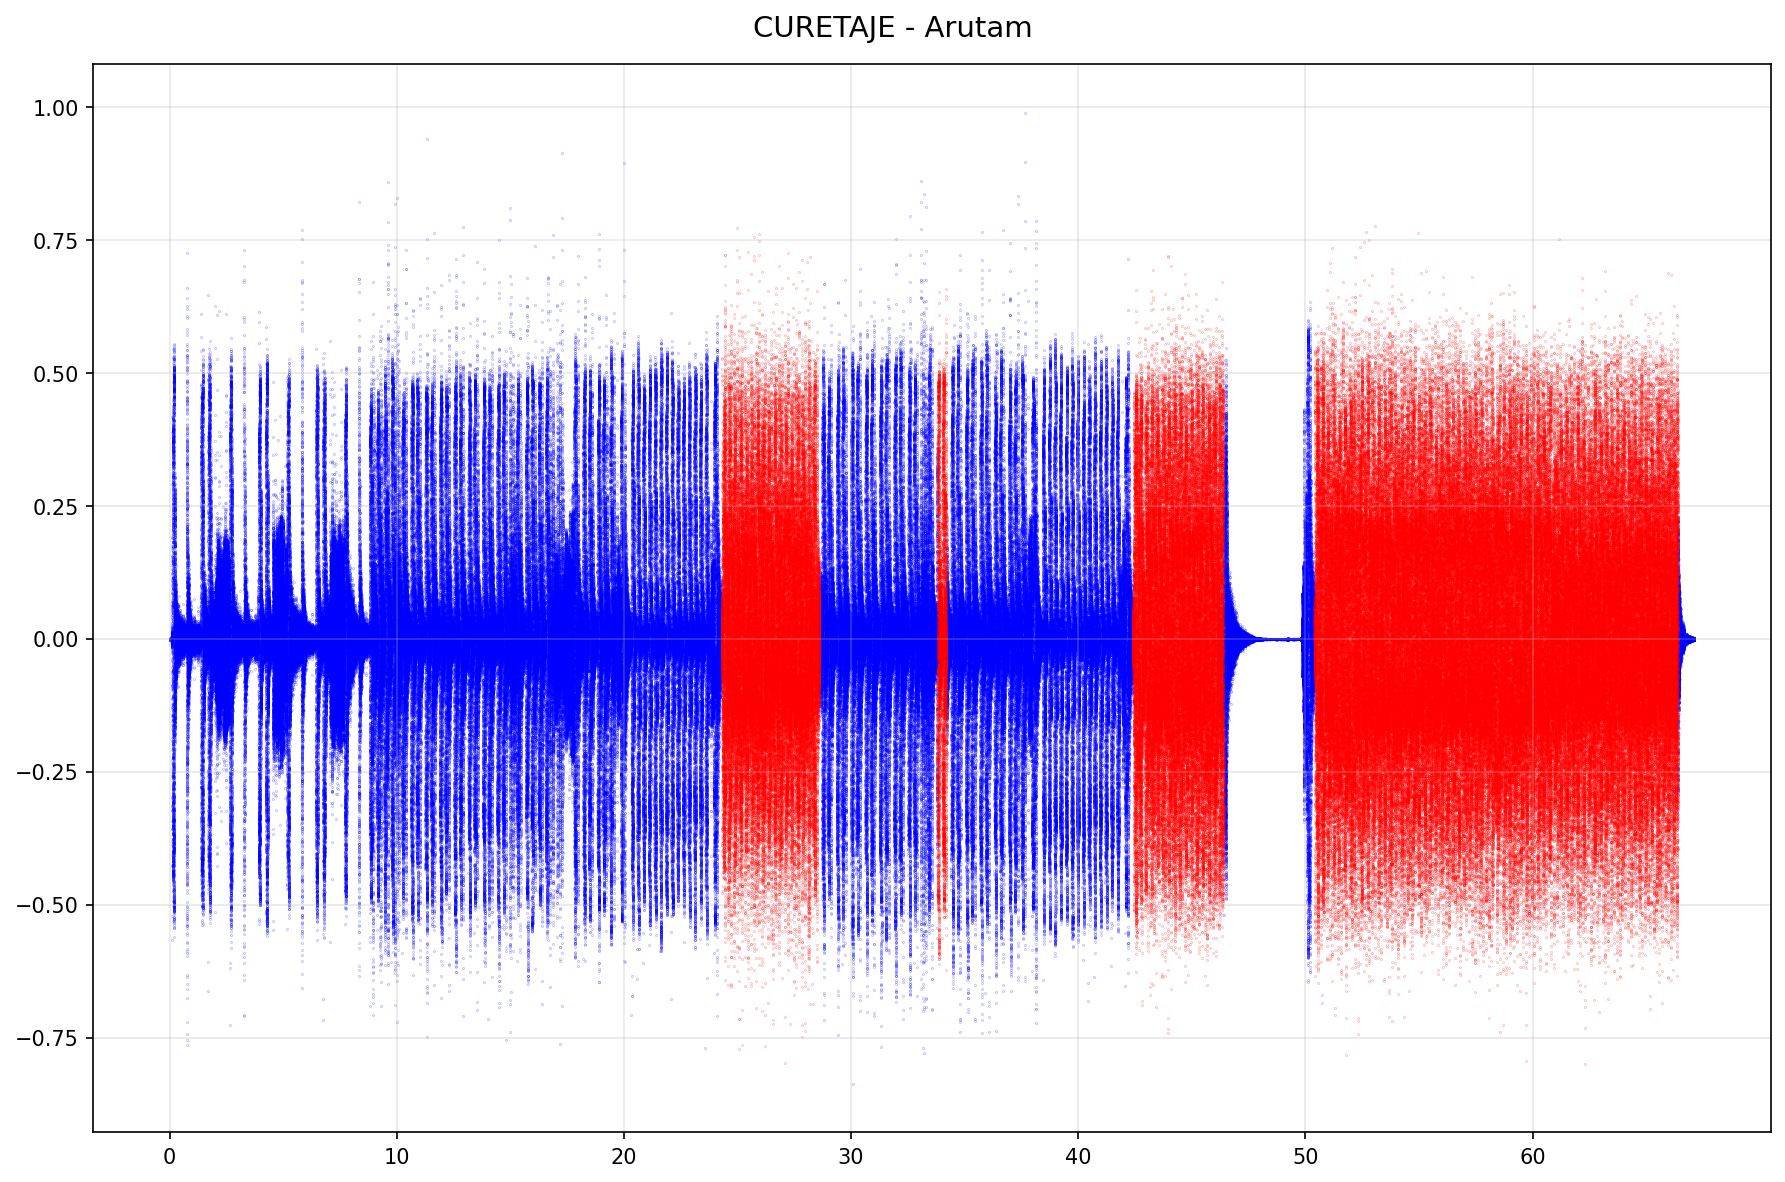
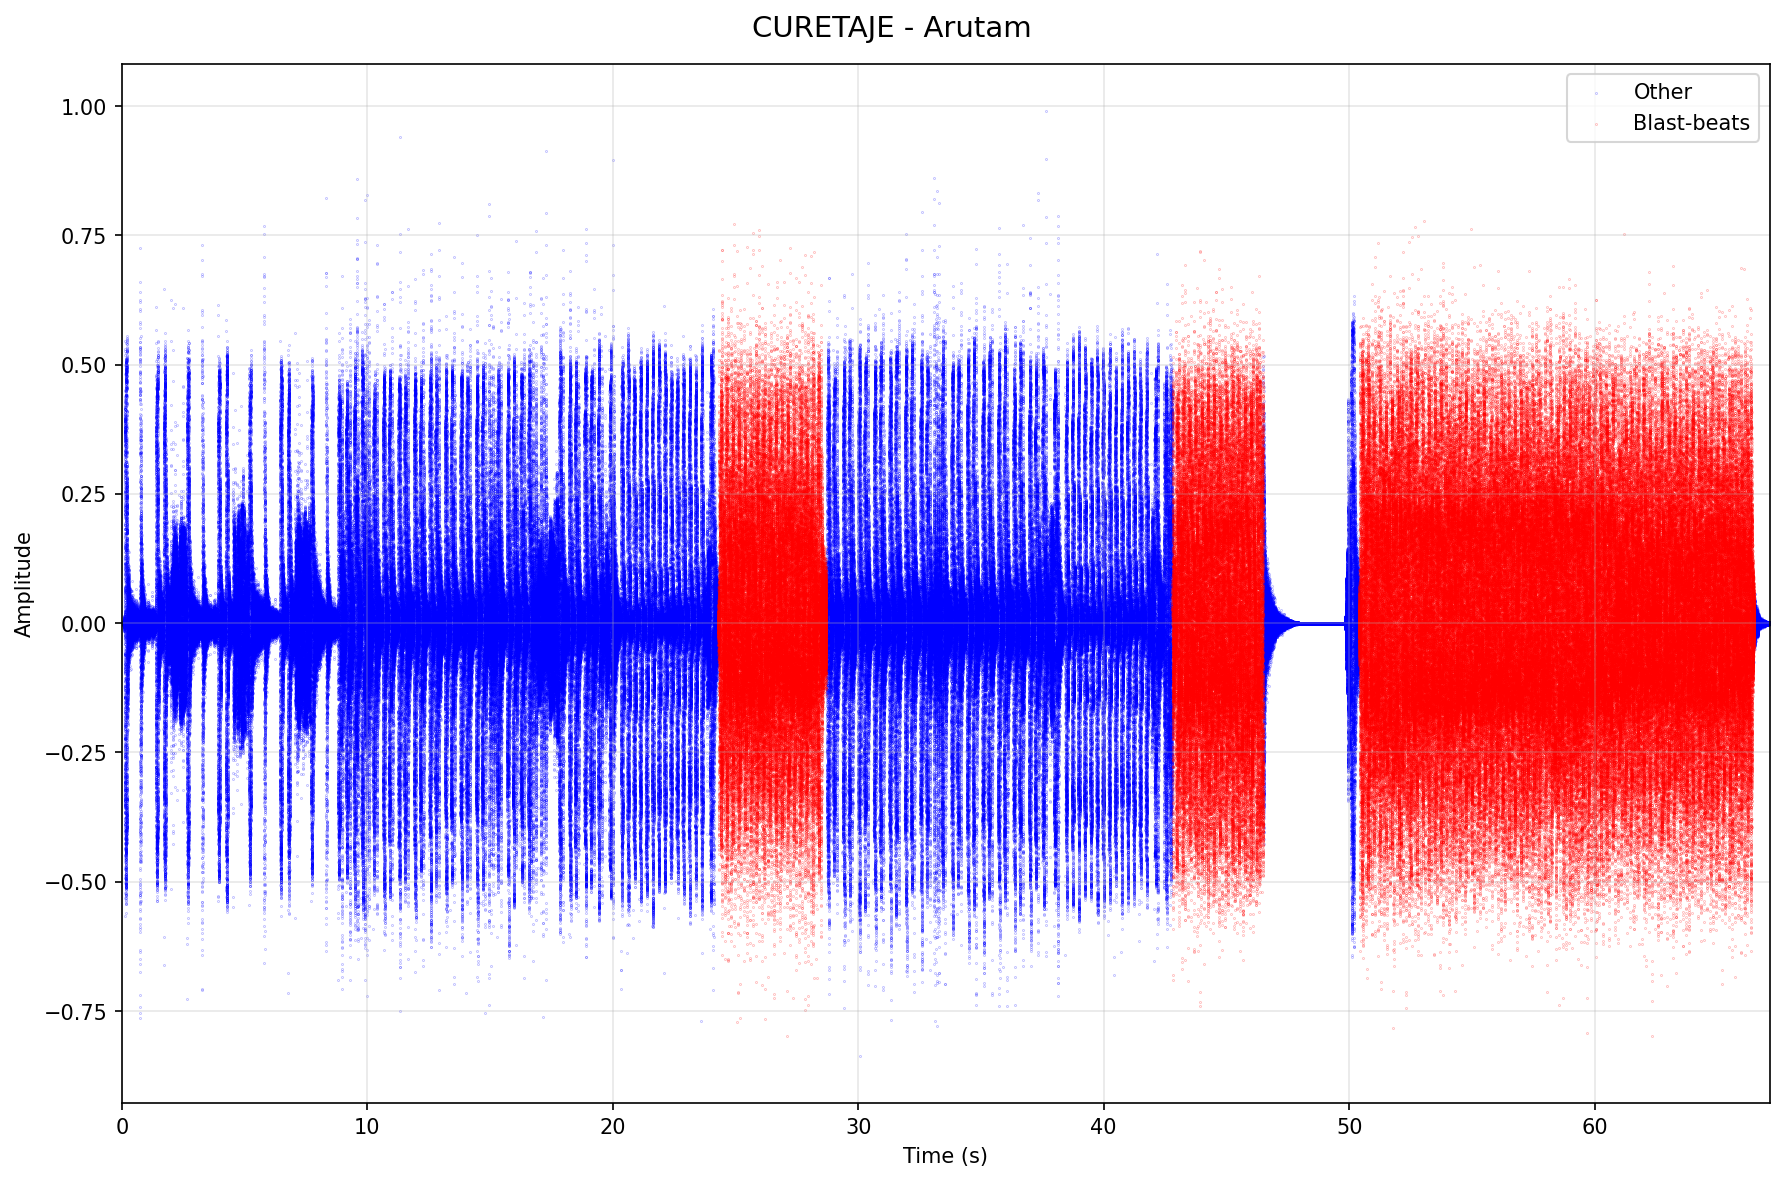
adjust hardcoded freqs. for curetaje example

diff --git a/main.py b/main.py
@@ -9,7 +9,8 @@ from plotting import plot_waveform
 
 
 class LabeledSection(NamedTuple):
-    time_range: tuple[int, int]
+    start_idx: int
+    end_idx: int
     snare_present: bool
     bass_drum_present: bool
 
@@ -58,7 +59,7 @@ def get_sections_labeled_by_percussion_content_from_audio(time, data, sample_rat
         snare_present = is_peak_present_around_frequency(snare_drum_freq, freq, fft_magnitude)
         bass_drum_present = is_peak_present_around_frequency(bass_drum_freq, freq, fft_magnitude)
 
-        results.append(LabeledSection((start_idx, end_idx), snare_present, bass_drum_present))
+        results.append(LabeledSection(start_idx, end_idx, snare_present, bass_drum_present))
 
     return results
 
@@ -77,8 +78,8 @@ def identify_blastbeat_intervals(sections: list[LabeledSection]) -> list[tuple[i
             hits_count += 1
         else:
             if hits_count >= min_hits_threshold:
-                blastbeat_start = sections[blastbeat_start_idx].time_range[0]
-                blastbeat_end = sections[i].time_range[0]
+                blastbeat_start = sections[blastbeat_start_idx].start_idx
+                blastbeat_end = sections[i].end_idx
                 results.append((blastbeat_start, blastbeat_end))
             hits_count = 0
 
@@ -89,7 +90,7 @@ if __name__ == "__main__":
     base_dir = "/home/linomp/Downloads"
     default_output_dir = f"./output"
 
-    bass_drum_freq, snare_freq, file = 40.0, 200.0, "CURETAJE - Arutam.mp3"
+    bass_drum_freq, snare_freq, file = 40.0, 230.0, "CURETAJE - Arutam.mp3"
     #bass_drum_freq, snare_freq, file = 30.0, 300.0, "Dying Fetus - Subjected To A Beating.wav"
 
     file_path = Path(base_dir) / file

diff --git a/plotting.py b/plotting.py
@@ -103,10 +103,12 @@ def plot_waveform(time: np.ndarray, data:np.ndarray, ranges_to_highlight:list[tu
         non_highlighted_data_elements.extend(data[curr_idx:])
 
     fig, ax1 = plt.subplots(1, 1, figsize=(12, 8))
-    ax1.scatter(non_highlighted_time_elements, non_highlighted_data_elements, color='blue', marker='o', label='Non-highlighted', s=0.01)
-    ax1.scatter(highlighted_time_elements, highlighted_data_elements, color='red', marker='o', label='Highlighted', s=0.01)
+    ax1.scatter(non_highlighted_time_elements, non_highlighted_data_elements, color='blue', marker='o', label='Other', s=0.01)
+    ax1.scatter(highlighted_time_elements, highlighted_data_elements, color='red', marker='o', label='Blast-beats', s=0.01)
     ax1.set_xticks(np.arange(0, time[-1] + 1, 10))
     ax1.grid(True, alpha=0.3)
+    ax1.set_xlabel("Time (s)")
+    ax1.set_ylabel("Amplitude")
 
     fig.suptitle(title, fontsize=14)
     plt.tight_layout()
